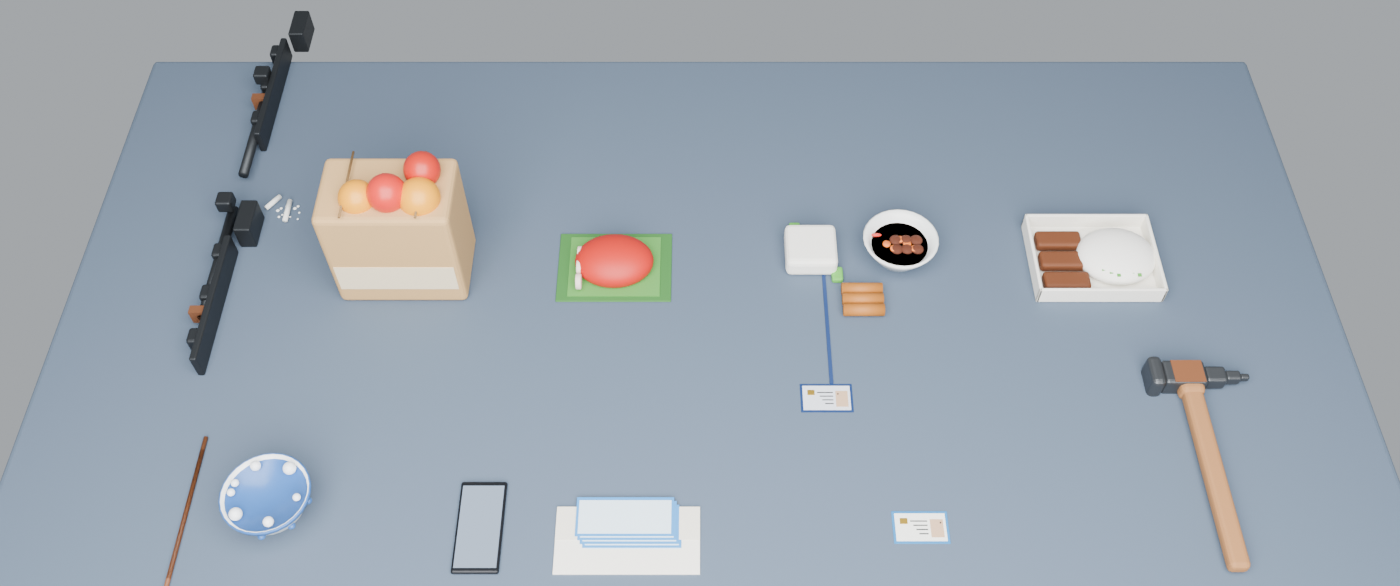
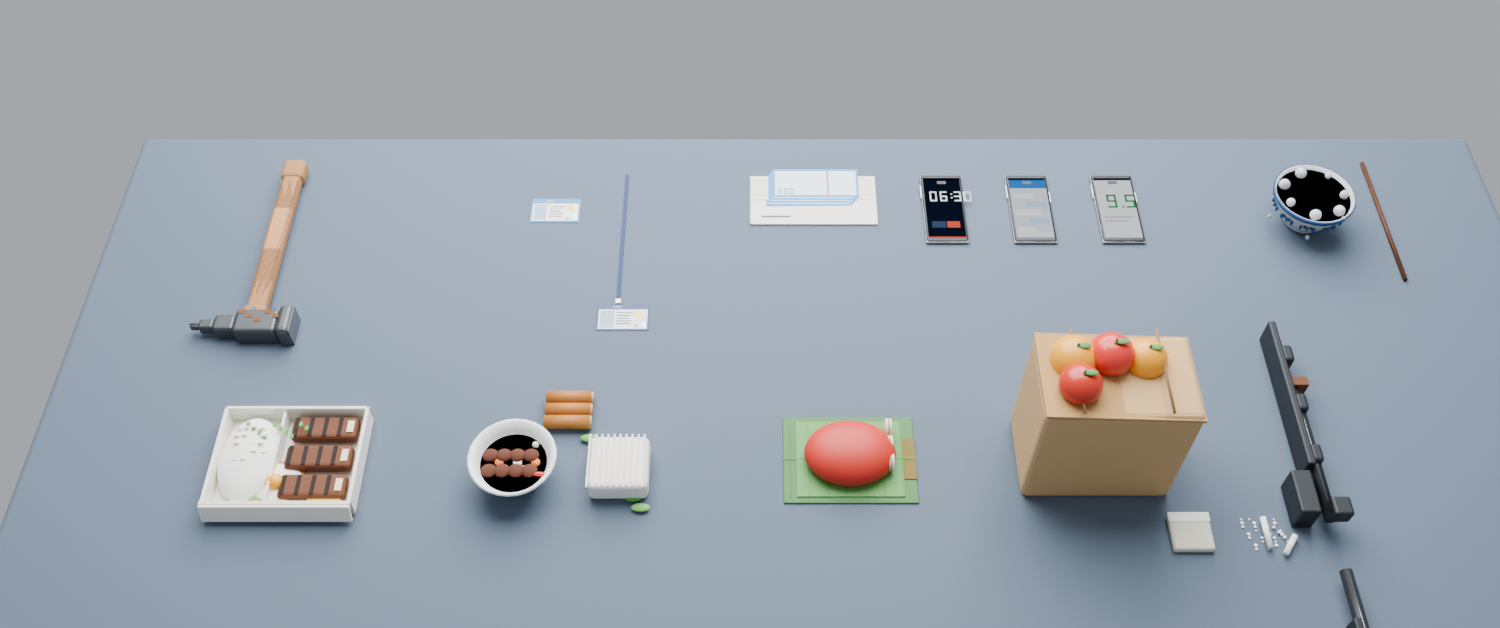
Ho so 02: lam chi tiet them dao cu 3D (chu so/UI dien thoai, the, bua, bat, com, bun cha, xoi, tui qua, then sat)
Claude-Session: https://claude.ai/code/session_015xtvRhLRyfqVC2mbHabEYR

diff --git a/episodes/hem-co-chuyen/ho-so-02-nguoi-lam-thay/assets/boi-canh-3d/BOI-CANH-CAN-CHUAN-BI.md b/episodes/hem-co-chuyen/ho-so-02-nguoi-lam-thay/assets/boi-canh-3d/BOI-CANH-CAN-CHUAN-BI.md
@@ -46,3 +46,17 @@ Chưa làm cho đạo cụ: vật liệu chi tiết (chữ trên thẻ, tem, log
 
 ## 4. Việc phụ thuộc nhân vật 3D
 Nam / Người Kia / Tùng (Modular) chưa vào cảnh nên chưa kiểm được: chiều cao 1,60 m so với cửa/ghế, điểm neo đạo cụ, va chạm tay–đồ vật, khung hình có người thật.
+
+## 5. Chi tiết đạo cụ đã thêm (13/11 chiều) — `dao_cu_3d.py`
+- **Chữ/UI thật:** chữ số 7 đoạn (`digit`, `text_line`) cho "2007" trên thẻ, "500" trên tờ tiền, màn hình điện thoại **06:30** (nút Báo lại/Dừng, viền rung đỏ), **Zalo** (tiêu đề xanh, 5 bong bóng chat, ô nhập), **điểm 9.5**.
+- **Thẻ CCCD/SV:** quốc huy hoặc logo trường, dải tiêu đề, chip + vân chip, ảnh chân dung (vai, đầu, tóc), nốt ruồi trái/phải đúng kích thước, QR/vạch, dải ánh kim; thẻ SV có dây đeo + kẹp.
+- **Búa:** vân gỗ + chỗ cầm mòn bóng, đuôi cán, nêm chốt đầu, mặt đập sáng, khe móng, gỉ lốm đốm.
+- **Phong bì:** tiền polyme có cửa sổ trong suốt + dải đỏ + mệnh giá, mép nhăn, dải keo, dòng chữ viết tay.
+- **Điện thoại:** viền kim loại, đảo camera, cụm 4 ống kính, nút nguồn/âm lượng.
+- **Bát sứ:** chân đế, 10 bông hoa xanh (5 cánh + nhụy), mẻ miệng, 12 bọt xà phòng, giọt nước chảy.
+- **Hộp cơm:** nắp mở, ngăn, hạt cơm, sườn có vết cháy + đầu xương, trứng có rìa vàng giòn + bóng sáng, dưa chuột/chua, mỡ hành.
+- **Bún chả:** sợi bún, rau thơm, chả cháy, cà rốt/su hào ngâm, tỏi ớt, nem cắt đôi thấy nhân.
+- **Xôi gấc:** gân lá chuối, mép hơ lửa xém, ~40 hạt xôi, hạt gấc, dây lạt buộc, giò lụa có lớp lá bọc.
+- **Túi quả:** nhãn, nếp gấp giấy, miệng vênh, quả có cuống + lá + điểm sáng.
+- **Phấn:** mảnh vụn nhọn, bột, giẻ lau bảng. **Then sắt:** đinh vít + rãnh, lỗ xỏ thanh, vệt mòn sáng, gỉ, lỗ tai khóa.
+- **Lưu ý toạ độ:** vì thế giới là phản chiếu của toạ độ thiết kế (x đảo) và camera phòng nhìn về −y, chữ/giao diện phải lật y (`lat_y`) thì mới đọc xuôi khi nhìn từ ghế ngồi; đã áp dụng cho thẻ, phong bì, điện thoại trong bảng trưng bày. Khi đặt vào cảnh, bọc bằng `lat_y` như `bang_dao_cu`.
